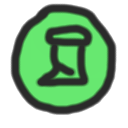
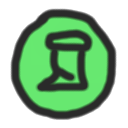
update

diff --git a/README.md b/README.md
@@ -1,1 +1,7 @@
 # karakdungeon
+
+ICONS
+size 128x128
+pincel 10px
+blur 50%
+flow 100%
